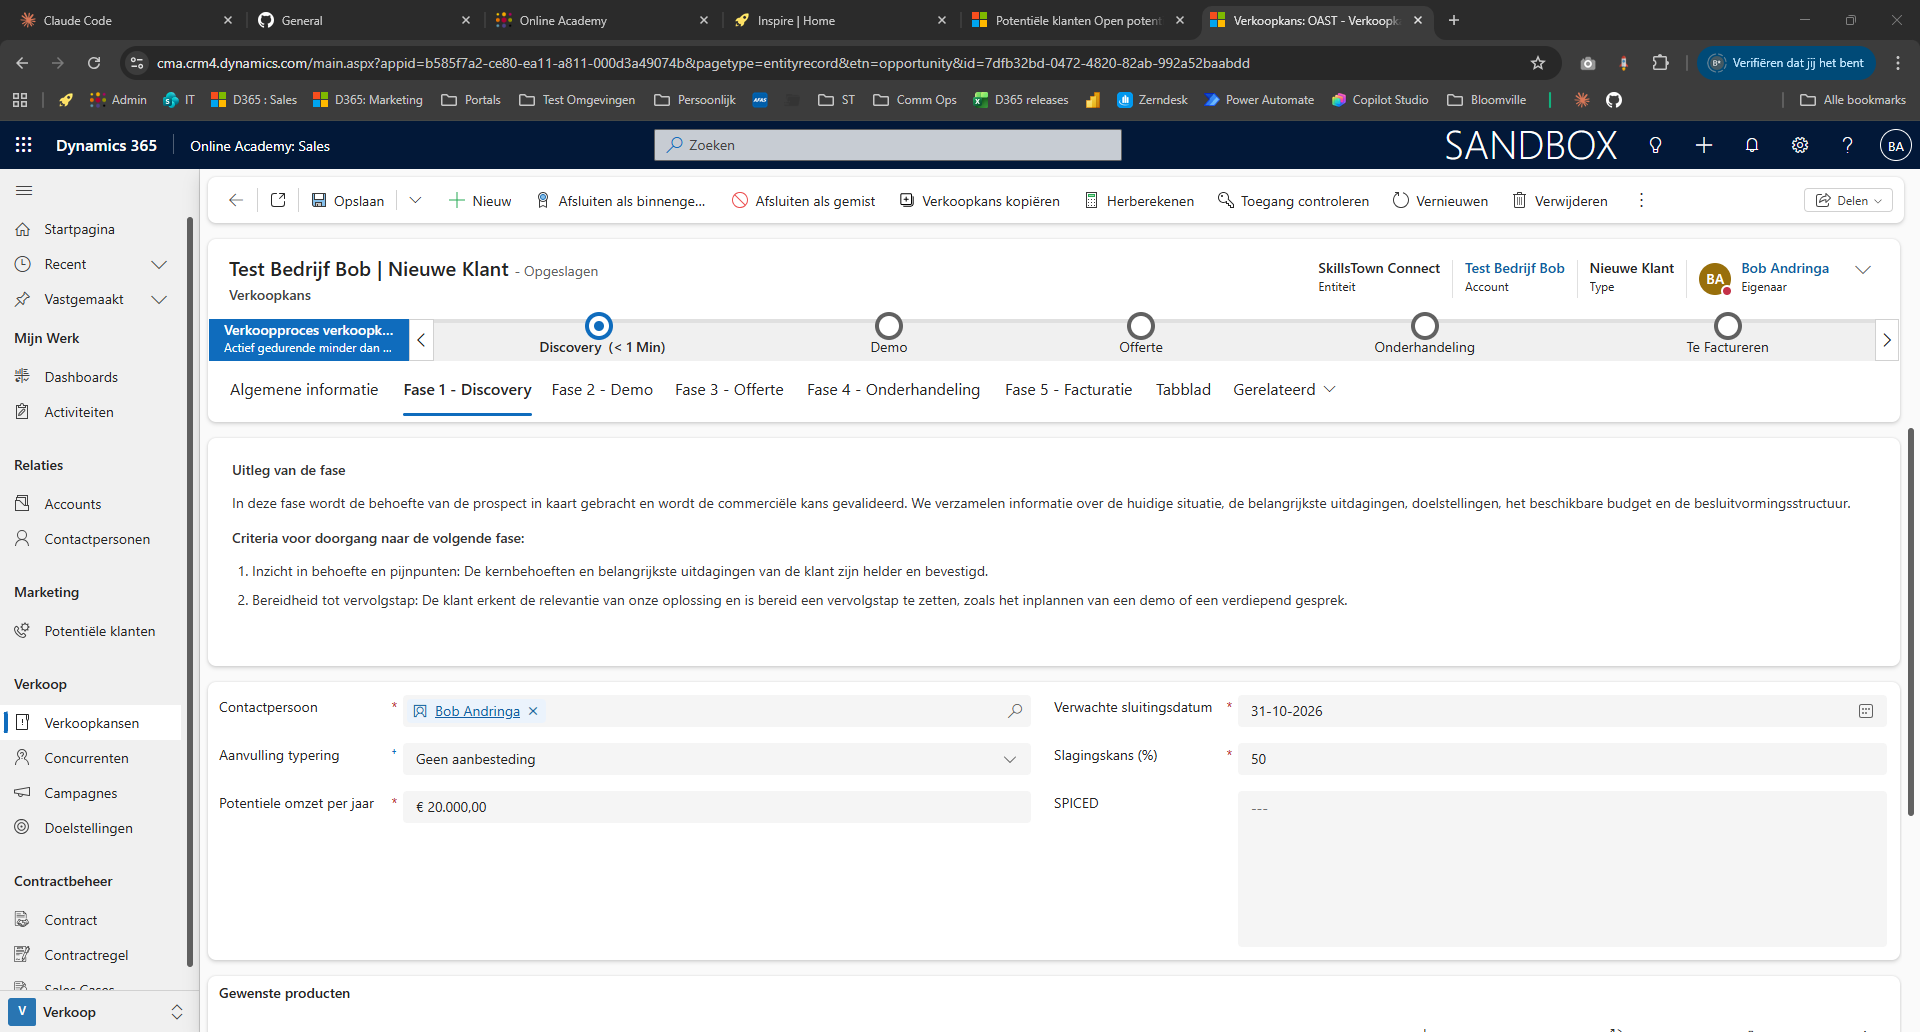
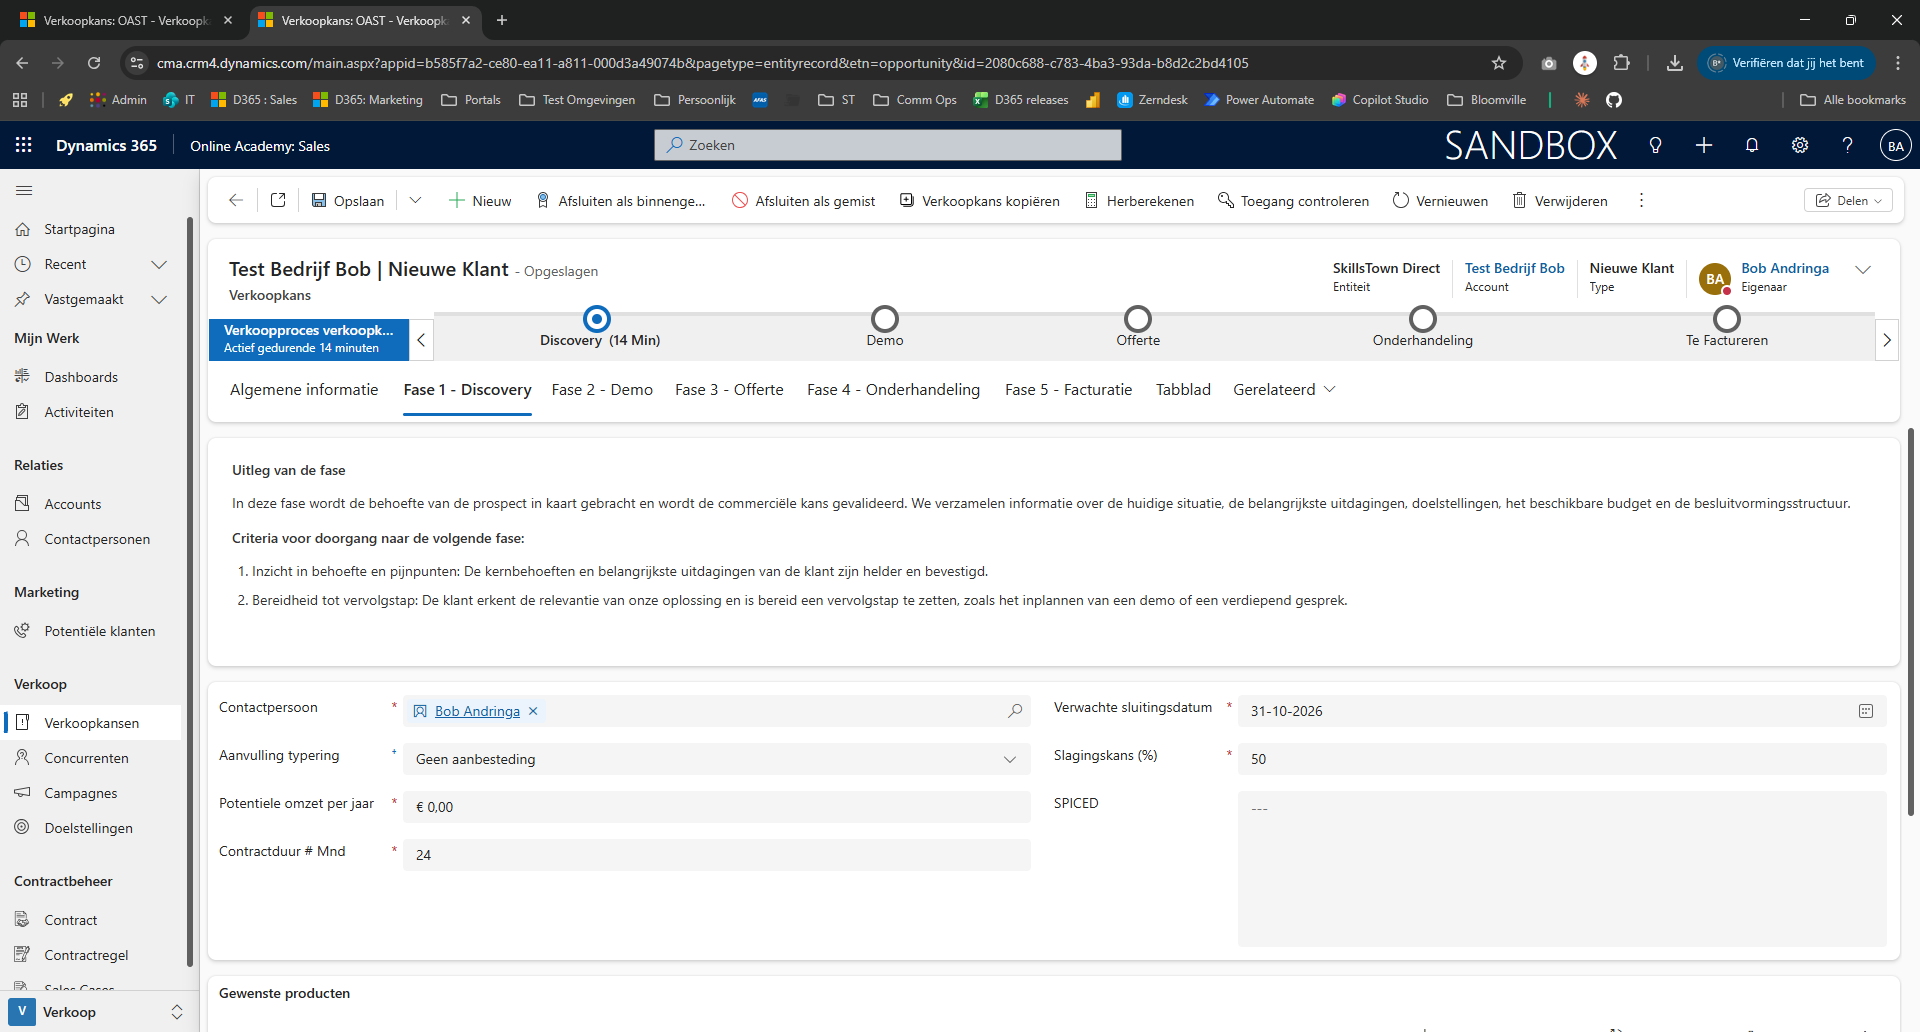
Correct texts for Bron, Contractduur and Concurrenten
- Toelichting Broncampagne is added below Bron, it does not replace it
- Fase 1 now has a required Contractduur # Mnd; new Fase 1 screenshots
- Concurrenten is not new, so it is no longer listed as a change
- Definitieve contractduur is the guaranteed term (example with opt-out)

Claude-Session: https://claude.ai/code/session_01ReoF9wBvZ5fZsmBWKEijTV

diff --git a/site/index.html b/site/index.html
@@ -196,16 +196,16 @@ const SERIES = {
       "jij": "Kies de contactpersoon meteen bij het aanmaken."
      },
      {
-      "title": "Toelichting Broncampagne vervangt Bron",
+      "title": "Nieuw veld Toelichting Broncampagne",
       "box": [
        8,
        426,
        562,
        36
       ],
-      "wat": "Het veld Bron is vervangen door Toelichting Broncampagne. Ook dit veld is verplicht.",
+      "wat": "Onder Bron komt een nieuw verplicht veld: Toelichting Broncampagne. Je kiest uit Inbound, Outreach, Partners & Events of Overig.",
       "waarom": "",
-      "jij": "Kies via welke campagne de klant bij ons is gekomen."
+      "jij": "Vul naast de Bron ook de Toelichting Broncampagne in."
      },
      {
       "title": "Aantal werknemers staat hier",
@@ -264,12 +264,24 @@ const SERIES = {
       "jij": "Schat de slagingskans al in de eerste fase in. Je moet dus eerder met een waarde komen."
      },
      {
+      "title": "Contractduur # Mnd is verplicht",
+      "box": [
+       8,
+       670,
+       824,
+       40
+      ],
+      "wat": "In Fase 1 vul je nu al de contractduur in maanden in. Dit veld is verplicht.",
+      "waarom": "",
+      "jij": "Geef al in Fase 1 aan hoe lang het contract naar verwachting loopt."
+     },
+     {
       "title": "Gewenste oplossing is weg",
       "box": [
        8,
-       808,
+       816,
        1692,
-       50
+       44
       ],
       "wat": "De velden Gewenste oplossing en Gewenste oplossing overig zijn verdwenen. Daarvoor in de plaats komen producten.",
       "waarom": "De producten zijn de basis voor de definitieve kosten in Fase 4. Die worden daardoor automatisch berekend.",
@@ -346,18 +358,6 @@ const SERIES = {
       "wat": "Slagingskans staat hier niet meer. Je vult hem in Fase 1 in.",
       "waarom": "Zo staat elke verkoopkans vanaf het begin met een kans in de pipeline.",
       "jij": "Pas de slagingskans in Fase 1 aan als die verandert."
-     },
-     {
-      "title": "Nieuwe sectie Concurrenten",
-      "box": [
-       8,
-       580,
-       1692,
-       270
-      ],
-      "wat": "Je kunt bestaande concurrenten aan de verkoopkans koppelen.",
-      "waarom": "Zo zien we met wie we concurreren en waarom we winnen of verliezen.",
-      "jij": "Voeg een concurrent toe als de klant ook met andere aanbieders praat."
      }
     ]
    },
@@ -419,9 +419,9 @@ const SERIES = {
        830,
        46
       ],
-      "wat": "Contractduur # Mnd heet nu Definitieve contractduur # Mnd.",
-      "waarom": "Zo is duidelijk dat dit de afgesproken looptijd is.",
-      "jij": "Vul de looptijd in maanden in zoals die met de klant is afgesproken."
+      "wat": "In Fase 4 heet het veld Definitieve contractduur # Mnd. Het gaat hier om de gegarandeerde looptijd.",
+      "waarom": "Zo is duidelijk dat dit de gegarandeerde looptijd is.",
+      "jij": "Vul de gegarandeerde looptijd in maanden in. Bij een contract van 4 jaar met een opt-out na 1 jaar vul je 12 maanden in."
      },
      {
       "title": "Nieuw veld Definitieve TCV",
@@ -690,6 +690,13 @@ const SERIES = {
       "jij": "Vul de potentiële omzet per jaar zelf in, zoals je gewend was."
      },
      {
+      "title": "Contractduur # Mnd is verplicht",
+      "box": null,
+      "wat": "In Fase 1 vul je nu al de contractduur in maanden in. Dit veld is verplicht.",
+      "waarom": "",
+      "jij": "Geef al in Fase 1 aan hoe lang het contract naar verwachting loopt."
+     },
+     {
       "title": "Sectie Gewenste producten",
       "box": [
        8,
@@ -732,18 +739,6 @@ const SERIES = {
       "wat": "Slagingskans staat hier niet meer. Je vult hem in Fase 1 in.",
       "waarom": "Zo staat elke verkoopkans vanaf het begin met een kans in de pipeline.",
       "jij": "Pas de slagingskans in Fase 1 aan als die verandert."
-     },
-     {
-      "title": "Nieuwe sectie Concurrenten",
-      "box": [
-       8,
-       555,
-       1692,
-       290
-      ],
-      "wat": "Je kunt bestaande concurrenten aan de verkoopkans koppelen.",
-      "waarom": "Zo zien we met wie we concurreren en waarom we winnen of verliezen.",
-      "jij": "Voeg een concurrent toe als de klant ook met andere aanbieders praat."
      }
     ]
    },
@@ -849,9 +844,9 @@ const SERIES = {
        830,
        46
       ],
-      "wat": "Contractduur # Mnd heet nu Definitieve contractduur # Mnd.",
-      "waarom": "Zo is duidelijk dat dit de afgesproken looptijd is.",
-      "jij": "Vul de looptijd in maanden in zoals die met de klant is afgesproken."
+      "wat": "In Fase 4 heet het veld Definitieve contractduur # Mnd. Het gaat hier om de gegarandeerde looptijd.",
+      "waarom": "Zo is duidelijk dat dit de gegarandeerde looptijd is.",
+      "jij": "Vul de gegarandeerde looptijd in maanden in. Bij een contract van 4 jaar met een opt-out na 1 jaar vul je 12 maanden in."
      },
      {
       "title": "Nieuw veld Definitieve TCV",
